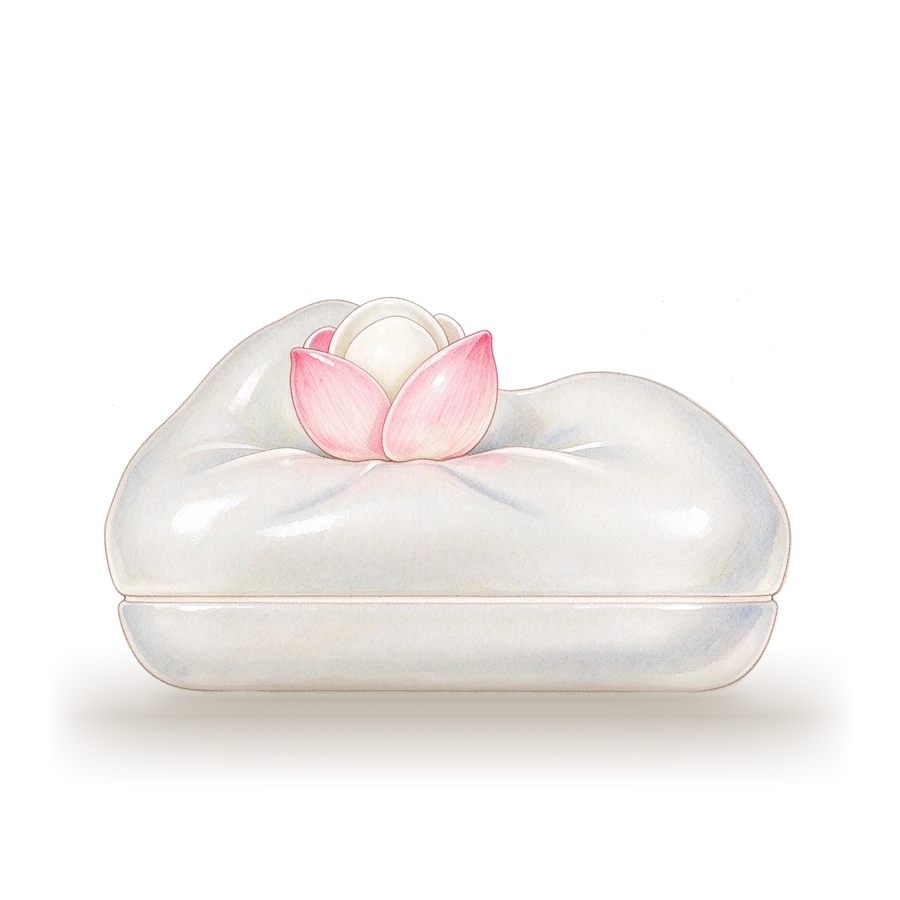
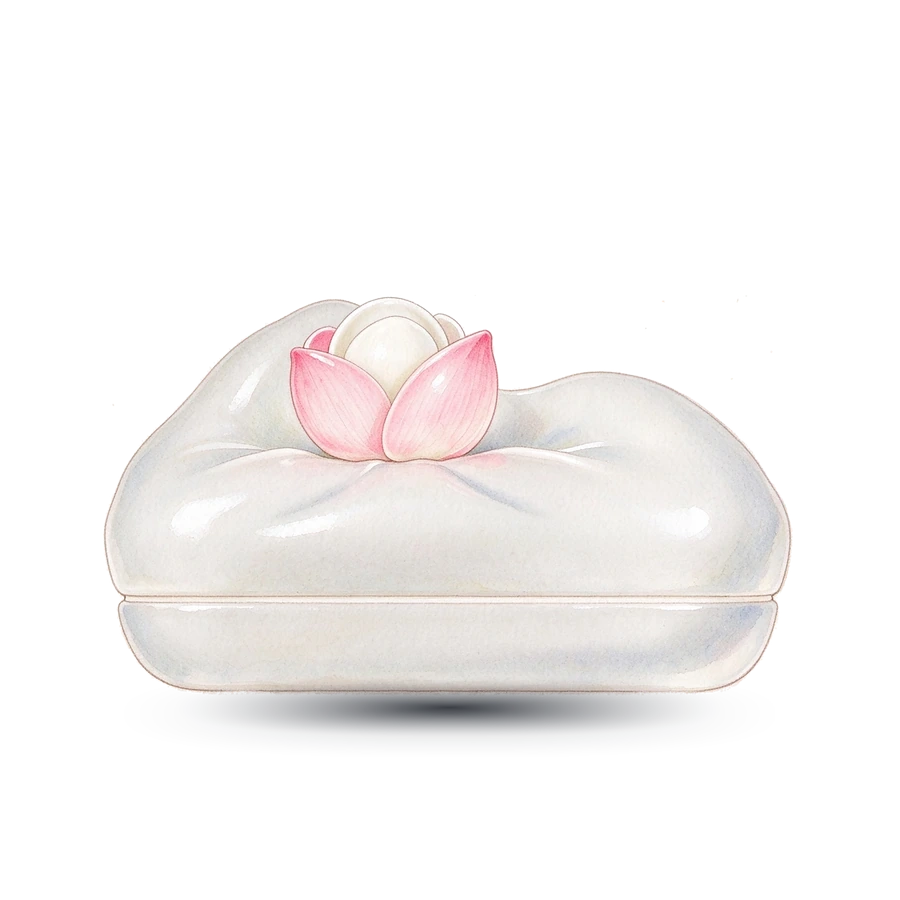
香炉阴影按主题分开：白天暖灰椭圆投影、黑夜纯黑投影；撤掉 CSS 阴影层
- 素材：用户 AI 水彩图抠出香炉本体（边界泛洪），阴影单独按主题重烘焙
- 白天：椭圆投影 rgb(112,98,80)，峰值 0.50
- 黑夜：椭圆投影 rgb(8,12,20)，峰值 0.62（不再是暖褐色）
- 投影形状 superellipse(2.6)：横向比炉底略宽，边缘平滑消失，无直边
- HTML 白天图 / JS 张开图都按主题切换；CSS 不再叠加任何阴影

Changed region(s): [[0.0622, 0.7467, 0.9333, 0.84]]

diff --git a/index.html b/index.html
@@ -118,7 +118,7 @@
           <div class="glow-layer glow-petals" aria-hidden="true"></div>
           <div class="glow-layer glow-flash" id="censerFlash" aria-hidden="true"></div>
           <div class="censer-ground-shadow" aria-hidden="true"></div>
-          <img class="censer-art censer-art-day" src="assets/censer/product.webp"
+          <img class="censer-art censer-art-day" src="assets/censer/product-day.webp"
                width="1254" height="1254" alt="" aria-hidden="true" draggable="false" />
           <img class="censer-art censer-art-night" src="assets/censer/product.webp"
                width="1254" height="1254" alt="" aria-hidden="true" draggable="false" />

diff --git a/css/vintage.css b/css/vintage.css
@@ -1994,3 +1994,9 @@ html[data-skin="vintage"][data-theme="night"] .censer-wrap::after {
 /* 阴影已经烘进产品图，CSS 这层只做一点点环境压暗 */
 html[data-skin="vintage"] .censer-wrap .censer-ground-shadow { opacity: .45; }
 html[data-skin="vintage"] .censer-wrap::before { display: none !important; }
+
+
+/* 阴影已按主题烘焙进素材，CSS 不再叠加任何阴影层 */
+html[data-skin="vintage"] .censer-wrap .censer-ground-shadow { display: none !important; }
+html[data-skin="vintage"] .censer-wrap::after { content: none !important; }
+html[data-skin="vintage"] .censer-wrap .censer-art { filter: none !important; }

diff --git a/js/vintage.js b/js/vintage.js
@@ -92,6 +92,8 @@
 
   function syncTheme() {
     var night = html.getAttribute('data-theme') === 'night';
+    var bloomArt = doc.querySelector('.censer-bloom');
+    if (bloomArt) bloomArt.src = night ? 'assets/censer/bloom-open.webp' : 'assets/censer/bloom-open-day.webp';
     // 日夜共用同一张干净香炉；开花层用烘焙好的「花瓣张开」图，交叉淡入
 
     if (themeIcon) {
